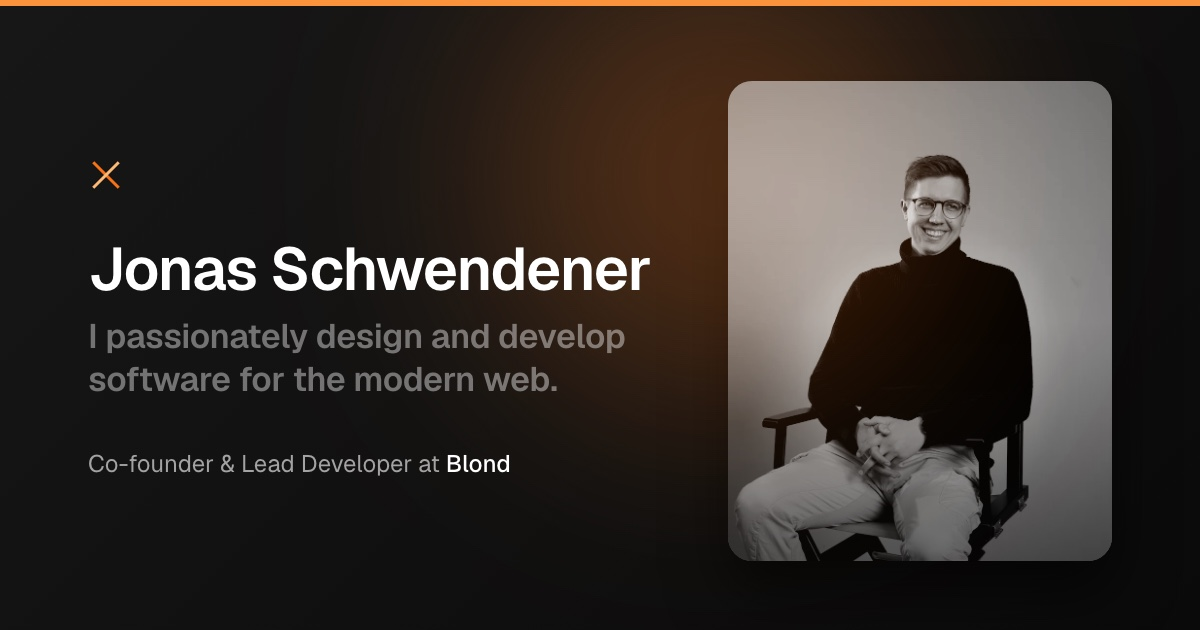
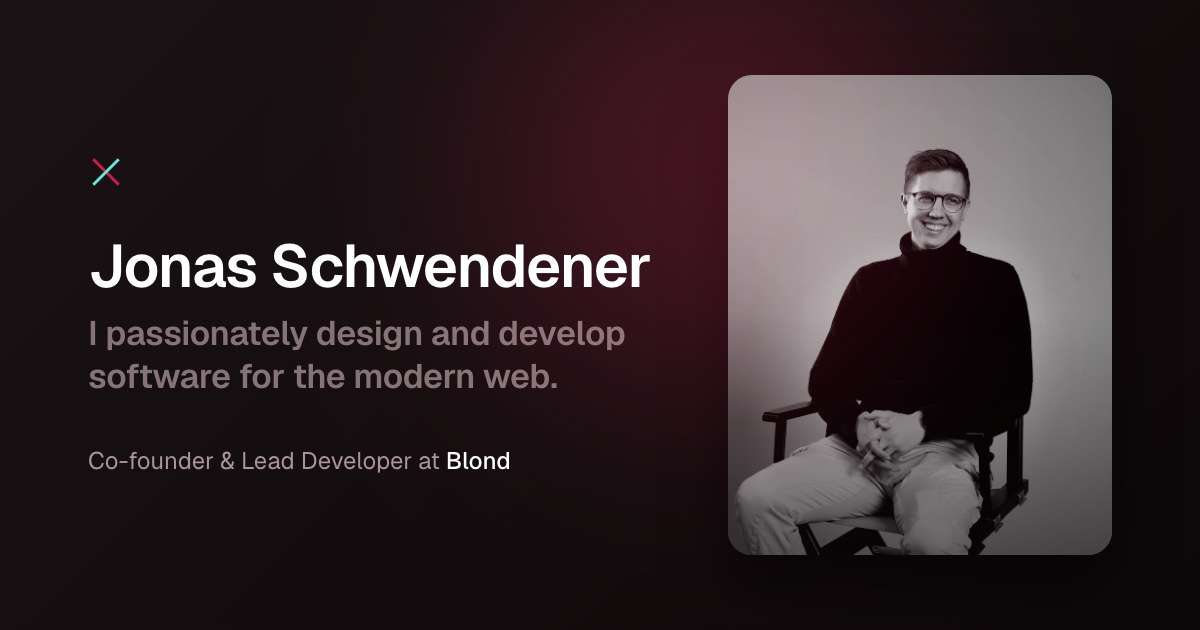
Switch homepage to Bordeaux palette with teal accent
- Replace neutral grays with a Bordeaux-tinted ramp and add crimson colors
- Use crimson and teal for the cross, crimson for the glow
- Remove top border, tint link underlines teal and signature crimson
- Update favicons, Apple touch icon, share image and theme color to match

diff --git a/resources/css/app.css b/resources/css/app.css
@@ -11,17 +11,21 @@
     --font-sans: 'Geist Variable', 'Geist', ui-sans-serif, system-ui, sans-serif, 'Apple Color Emoji', 'Segoe UI Emoji',
         'Segoe UI Symbol', 'Noto Color Emoji';
 
-    --color-gray-50: var(--color-neutral-50);
-    --color-gray-100: var(--color-neutral-100);
-    --color-gray-200: var(--color-neutral-200);
-    --color-gray-300: var(--color-neutral-300);
-    --color-gray-400: var(--color-neutral-400);
-    --color-gray-500: var(--color-neutral-500);
-    --color-gray-600: var(--color-neutral-600);
-    --color-gray-700: var(--color-neutral-700);
-    --color-gray-800: var(--color-neutral-800);
-    --color-gray-900: var(--color-neutral-900);
-    --color-gray-950: var(--color-neutral-950);
+    --color-gray-50: #fbf7f8;
+    --color-gray-100: #f6eff0;
+    --color-gray-200: #e9dcde;
+    --color-gray-300: #d9c8cb;
+    --color-gray-400: #a8969a;
+    --color-gray-500: #857377;
+    --color-gray-600: #5e4f53;
+    --color-gray-700: #43363a;
+    --color-gray-800: #2a2023;
+    --color-gray-900: #1a1214;
+    --color-gray-950: #0d0809;
+
+    --color-crimson-300: #f7a9b8;
+    --color-crimson-400: #e85d7a;
+    --color-crimson-500: #c81e4a;
 }
 
 @theme {

diff --git a/resources/views/welcome.blade.php b/resources/views/welcome.blade.php
@@ -52,7 +52,7 @@
         <meta name="robots" content="index, follow, max-image-preview:large">
         <link rel="canonical" href="{{ url('/') }}">
 
-        <meta name="theme-color" content="#171717">
+        <meta name="theme-color" content="#1a1214">
         <meta name="color-scheme" content="dark">
         <link rel="icon" href="/favicon.ico" sizes="32x32">
         <link rel="icon" href="/favicon.svg" type="image/svg+xml">
@@ -81,23 +81,23 @@
         <!-- Styles / Scripts -->
         @vite(['resources/css/app.css', 'resources/js/app.js'])
     </head>
-    <body class="font-sans bg-gradient-to-br from-gray-900 to-gray-950 text-gray-300 antialiased border-t-2 border-orange-400 min-h-screen flex flex-col overflow-x-clip">
+    <body class="font-sans bg-gradient-to-br from-gray-900 to-gray-950 text-gray-300 antialiased min-h-screen flex flex-col overflow-x-clip">
         <main class="flex-1 flex items-center w-full max-w-6xl mx-auto px-8 py-16 lg:py-24">
             <div class="grid w-full items-center gap-16 lg:grid-cols-[minmax(0,1fr)_20rem] lg:gap-20 xl:grid-cols-[minmax(0,1fr)_24rem] xl:gap-28">
                 <div class="max-w-prose">
                     <div class="text-2xl font-semibold text-balance">
                         <div class="relative size-6 mb-8 rotate-45 motion-safe:animate-enter">
-                            <div class="absolute top-1/2 -translate-y-px w-full border-t-2 border-orange-500"></div>
-                            <div class="absolute left-1/2 -translate-x-px h-full border-l-2 border-orange-300"></div>
+                            <div class="absolute top-1/2 -translate-y-px w-full border-t-2 border-crimson-500"></div>
+                            <div class="absolute left-1/2 -translate-x-px h-full border-l-2 border-teal-300"></div>
                         </div>
                         <h1 class="text-white motion-safe:animate-enter motion-safe:[animation-delay:100ms]">Hi, my name is Jonas Schwendener.</h1>
                         <p class="text-gray-500 motion-safe:animate-enter motion-safe:[animation-delay:200ms]">I passionately design and develop software for the modern web.</p>
                     </div>
                     <div class="mt-12 2xl:text-lg space-y-4 text-balance">
-                        <p class="motion-safe:animate-enter motion-safe:[animation-delay:350ms]">I'm a co-founder and lead developer of <a href="https://blond.swiss" class="text-white underline underline-offset-4 decoration-gray-700 hover:decoration-gray-500 transition-colors">Blond</a>, the Swiss operating system for small businesses. Quotes, invoices, time tracking, bookkeeping and banking live in one place, and an AI agent takes care of the busywork.</p>
-                        <p class="motion-safe:animate-enter motion-safe:[animation-delay:450ms]">Before that, I worked at <a href="https://racerfish.com" class="text-white underline underline-offset-4 decoration-gray-700 hover:decoration-gray-500 transition-colors">Racerfish</a>, a full-service digital agency, on Nitrous Evolve, our in-house CMS, and on the many websites and web apps built with it.</p>
+                        <p class="motion-safe:animate-enter motion-safe:[animation-delay:350ms]">I'm a co-founder and lead developer of <a href="https://blond.swiss" class="text-white underline underline-offset-4 decoration-teal-800 hover:decoration-teal-500 transition-colors">Blond</a>, the Swiss operating system for small businesses. Quotes, invoices, time tracking, bookkeeping and banking live in one place, and an AI agent takes care of the busywork.</p>
+                        <p class="motion-safe:animate-enter motion-safe:[animation-delay:450ms]">Before that, I worked at <a href="https://racerfish.com" class="text-white underline underline-offset-4 decoration-teal-800 hover:decoration-teal-500 transition-colors">Racerfish</a>, a full-service digital agency, on Nitrous Evolve, our in-house CMS, and on the many websites and web apps built with it.</p>
                     </div>
-                    <x-signature class="mt-10 w-36 text-gray-300 2xl:w-40 motion-safe:animate-enter motion-safe:[animation-delay:600ms]" />
+                    <x-signature class="mt-10 w-36 text-crimson-400/50 2xl:w-40 motion-safe:animate-enter motion-safe:[animation-delay:600ms]" />
                 </div>
 
                 <div class="relative w-full max-w-sm lg:max-w-none">
@@ -118,7 +118,7 @@
                         </div>
                     </figure>
 
-                    <div aria-hidden="true" class="pointer-events-none absolute -left-16 -top-12 size-72 rounded-full bg-orange-500 opacity-25 blur-[80px] lg:-left-40 lg:-top-24 lg:size-[28rem] lg:opacity-[.28] lg:blur-[110px] mix-blend-screen motion-safe:animate-fade-in motion-safe:[animation-delay:500ms]"></div>
+                    <div aria-hidden="true" class="pointer-events-none absolute -left-16 -top-12 size-72 rounded-full bg-crimson-500 opacity-25 blur-[80px] lg:-left-40 lg:-top-24 lg:size-[28rem] lg:opacity-[.28] lg:blur-[110px] mix-blend-screen motion-safe:animate-fade-in motion-safe:[animation-delay:500ms]"></div>
                 </div>
             </div>
         </main>
